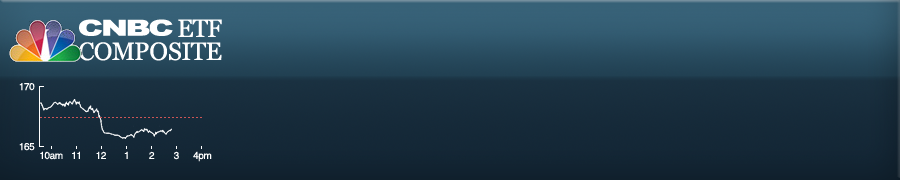
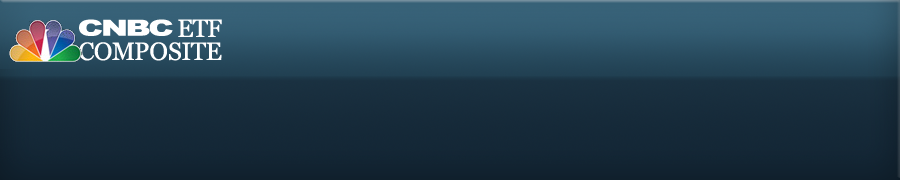
Micrograph.

diff --git a/public/javascripts/views/graph/micrograph.js b/public/javascripts/views/graph/micrograph.js
@@ -1,0 +1,244 @@
+(function() {
+  mapper.Micrograph = Micrograph;
+  var T=0,R=1,B=2,L=3;
+  function Micrograph($graph) {
+    var pad = [8, 15, 20, 39],
+        model = PriceGraphModel(GraphModel())
+          .width($graph.innerWidth() - pad[L] - pad[R])
+          .height($graph.innerHeight() - pad[T] - pad[B]),
+        svg = d3.select($graph[0]).append('svg'),
+        main = svg.append('g'),
+        graph = main.append('g')
+          .attr('transform', 'translate(' + pad[L] + ',' + pad[T] + ')'),
+        xAxis = svg.append('g')
+          .attr('class', 'x axis')
+          .attr('transform', 'translate(' + pad[L] + ',' + (pad[T] + model.height()) + ')'),
+        priceAxis = svg.append('g')
+          .attr('class', 'y axis')
+          .attr('transform', 'translate(' + pad[L] + ',' + pad[T] + ')'),
+        pricePath = graph.append('path')
+          .attr('class', 'graph_path')
+          .attr('stroke-width', 1.5)
+          .attr('stroke', '#fff'),
+        reference = graph.append('line')
+          .attr('class', 'reference')
+          .attr('stroke', '#f66')
+          .attr('stroke-dasharray', '2 2')
+          .attr('x1', 0),
+          
+        priceGenerator = d3.svg.line().x(model.xTime).y(model.yPrice).defined(model.isDefined);
+    
+    this.setTimeSeries = function(_series) {
+      model.series(_series);
+      update();
+    };
+    
+    function update() {
+      if(model.isGraphable) {
+        var series = model.series(),
+            yRef = model.priceScale(series.price_ref || 0);
+            
+        reference
+          .style('display', series.price_ref == null ? 'none' : '')
+          .attr('y1', yRef)
+          .attr('x2', model.width())
+          .attr('y2', yRef);
+
+        var d = priceGenerator(series.data);
+        if(d) pricePath.style('display', 'block').attr('d', d);
+        else pricePath.style('display', 'none');
+        
+        model.xAxis.tickPadding(3).tickSize(3);
+        
+        if (series.type == 'intraday') model.xAxis.tickFormat(
+          function(date, i) {
+            var h = date.getUTCHours(),
+                h12 = h == 12 ? 12 : h % 12,
+                lastHour = new Date(model.timeRange[1]).getUTCHours();
+            return i == 0 || h == lastHour ? h12 + (h < 12 ? 'am' : 'pm') : h12;
+          }
+        );
+/* // APPROPRITE, BUT UNTESTED
+        else if (series.type == '5day') model.xAxis.tickFormat(d3.time.format.utc('%a %b %e'));
+        else {
+          var span = model.timeRange[1] - model.timeRange[0];
+          if(span > 922752e5)// 3 years
+            model.xAxis.tickFormat(d3.time.format.utc('%Y'));
+          else if(span >= 307584e5)// 1 year
+            model.xAxis.tickFormat(d3.time.format.utc('%b %Y'));
+          else
+            model.xAxis.tickFormat(d3.time.format.utc('%b %Y'));
+        }
+*/
+        xAxis.call(model.xAxis);
+        console.log(model.priceScale.domain());
+        model.priceAxis.tickValues(model.priceScale.domain())
+          .tickPadding(4)
+          .orient('left')
+          .tickSize(-4);
+          
+        priceAxis.call(model.priceAxis);
+      }
+    }
+  }
+  
+  function PriceGraphModel(graphModel) {
+    var h = 0,
+        superSeries = graphModel.series,
+        priceScale = d3.scale.linear().range([h, 0]);
+    var instance = $.extend(graphModel, {
+      isGraphable: false,
+      priceScale: priceScale,
+      yPrice: function(slice) { return instance.priceScale(slice.price); },
+      priceAxis: d3.svg.axis().scale(priceScale),
+
+      series: function(_series) {
+        if (!arguments.length) return superSeries();
+        superSeries(_series);
+        prepare();
+      },
+      
+      height: function(_h) {
+        if (!arguments.length) return h;
+        h = _h;
+        instance.priceScale.range([h, 0]);
+        return instance;
+      }
+    });
+    
+    function prepare() {
+      var series = graphModel.series();
+      if(!series || !h) {
+        instance.isGraphable = false;
+        return instance;
+      }
+      instance.isGraphable = true;
+
+      var pMin = series.getMin('price', graphModel.timeRange),
+          pMax = series.getMax('price', graphModel.timeRange);
+
+      if (series.price_ref != null) {
+        pMin = Math.min(series.price_ref, pMin || (series.price_ref * .9));
+        pMax = Math.max(series.price_ref, pMax || (series.price_ref * 1.1));
+      }
+      
+      if (!pMin) pMin = 0;
+      if (!pMax) pMax = pMin;
+      var dPad = (pMax - pMin) * .1;
+      instance.priceScale.domain([Math.max(0, pMin - dPad), pMax + dPad]);
+      
+      return instance;
+    }
+    
+    return instance;
+  }
+  
+  function GraphModel() {
+    var marketHours = mapper.config.marketHours,
+        series = null,
+        isDefined,
+        w = 0,
+        
+        isWithinTimeRange = function(slice) { return slice.t >= instance.timeRange[0] && slice.t <= instance.timeRange[1]; },
+        isWithinMarketHours = function(slice) { var t = (slice.t % 8.64e7) / 60000; return t >= marketHours.t0 && t <= marketHours.t1; },
+        
+        timeScale = d3.time.scale.utc();
+        
+    var instance =  {
+      isGraphable: false,
+      
+      timeScale: timeScale,
+      timeRange: [null, null],
+      xTime: function(slice) { return instance.timeScale(slice.t); },
+      isDefined: function(slice) { return isDefined(slice); },
+      xAxis: d3.svg.axis().scale(timeScale),
+      
+      series: function(_series) {
+        if (!arguments.length) return series;
+        series = _series;
+        return prepare();
+      },
+      
+      // Wrongly returns subclass :(
+      width: function(_w) {
+        if (!arguments.length) return w;
+        if (w == _w) return instance;
+        w = _w;
+        return prepare();
+      }
+    };
+    
+    function prepare() {
+      var series = instance.series();
+      if(!series || !w) {
+        instance.isGraphable = false;
+        return instance;
+      }
+      
+      instance.isGraphable = true;
+      
+      switch(series.type) {
+        case 'intraday':
+        case '5day':
+          prepareIntraday();
+          break;
+        case 'daily':
+        default:
+          console.error('GraphModel currently only supports intaday and 5day time series');
+          return instance;
+      }
+      
+      if(series.type == 'intraday') isDefined = isWithinMarketHours;
+      else isDefined = isWithinTimeRange;
+            
+      return instance;
+    }
+    
+    function prepareIntraday() {
+      var seriesType = instance.series().type,
+          dayOf0 = Math.floor((series.getMin('t') || Date.now()) / 8.64e7) * 8.64e7,
+          dayOf1 = Math.floor((series.getMax('t') || Date.now()) / 8.64e7) * 8.64e7;
+
+      // Intraday series can only be one day long
+      if(seriesType == 'intraday' && dayOf0 != dayOf1) dayOf0 = dayOf1;
+      
+      var date0 = new Date(dayOf0 + marketHours.t0 * 60000),
+          date1 = new Date(dayOf1 + marketHours.t1 * 60000);
+      
+      var t = dayOf0,
+          d = 0,
+          _w = series.type == '5day' ? w / 5 : w,
+          domain = [],
+          range = [],
+          values = [];
+      while(t <= dayOf1) {
+        var dayOfWeek = new Date(t).getUTCDay(),
+            tOpen = t + marketHours.t0 * 60000,
+            tClose = t + marketHours.t1 * 60000;
+        if(series.hasData(tOpen, tClose) || series.data.length == 0) {//dayOfWeek != 0 && dayOfWeek != 6 && 
+          domain.push(tOpen);
+          domain.push(tClose);
+          range.push(d * _w);
+          range.push((d + 1) * _w);
+          values.push( new Date(tOpen) );
+          d++;
+        }
+        t += 8.64e7;
+      }
+
+      if(series.type == '5day' && d > 5) {
+        var diff = d - 5;
+        domain.splice(0, diff * 2);
+        range.splice(range.length - diff * 2, diff * 2);
+        values.splice(0, diff);
+      }
+
+      instance.timeScale.domain(domain).range(range);
+      instance.timeRange.splice(0, 2, domain[0], domain[domain.length - 1]);
+      
+      if(seriesType == '5day') instance.xAxis.tickValues(values);
+      else instance.xAxis.tickValues(null).ticks(d3.time.hours, 1);
+    };    
+    return instance;
+  }
+})();

diff --git a/public/javascripts/domains/foreside.js b/public/javascripts/domains/foreside.js
@@ -98,7 +98,9 @@
           ]
         },
         
-        template = new mapper.Template(bindings);  
+        template = new mapper.Template(bindings),
+        
+        micrograph = new mapper.Micrograph($('.micro.graph', $groups));
         
     mapper.GroupBehaviors.pickMembers(allEtfs, 4);
     mapper.GroupBehaviors.pickMembers(composite, 10);
@@ -107,6 +109,8 @@
     composite.on('change', updateGroup);
     updateGroup(allEtfs, true);
     updateGroup(composite, true);
+    
+    composite.acquireTimeSeries('intraday', function(series) { micrograph.setTimeSeries(series); });
     
     $groups.children().click(function() {
       var idAttr = $(this).attr('id');
@@ -152,7 +156,7 @@
       setSelected: function(group) {
         if(selected) {
           $('#' + selected.get('domName')).removeClass('selected');
-          $title.removeClass(selected.id);
+          $title.removeClass(selected.get('domName'));
         }
         selected = group;
         $('#' + selected.get('domName')).addClass('selected');
@@ -163,7 +167,7 @@
         else {
           $title.text(group.get('name'));
         }
-        $title.addClass(group.id);
+        $title.addClass(selected.get('domName'));
       },
       search: function() {},
       resize: function() {}

diff --git a/public/stylesheets/domains/foreside.css b/public/stylesheets/domains/foreside.css
@@ -209,6 +209,33 @@ body {
 #etf_composite .box:before {
   background: transparent url('/images/domains/foreside/cnbc_composite.png') no-repeat scroll right top;
 }
+#etf_composite .micro.graph {
+  float:left;
+  margin-top: 78px;
+  width:216px;
+  height:88px;
+}
+.micro.graph svg {
+  margin-left:0;
+}
+.micro.graph .reference {
+  shape-rendering: crispEdges;
+}
+.micro.graph .axis .tick {
+  stroke:#fff;
+}
+.micro.graph .axis text {
+  font-size:10px;
+  font-weight:normal;
+}
+.micro.graph .x.axis .domain {
+  display:none;
+}
+.micro.graph .y.axis .domain {
+  stroke:#fff;
+}
+
+
 #etf_composite dl {
   margin-right:213px;
   margin-left:260px;

diff --git a/lib/assets.js b/lib/assets.js
@@ -34,6 +34,7 @@ module.exports = function(assets) {
   assets.addJs('/javascripts/html_chart.js');
   assets.addJs('/javascripts/graph.js');
   assets.addJs('/javascripts/graph_ui.js');
+  assets.addJs('/javascripts/views/graph/micrograph.js');
   assets.addJs('/javascripts/search.js');
   assets.addJs('/javascripts/details.js');
   assets.addJs('/javascripts/news.js');
